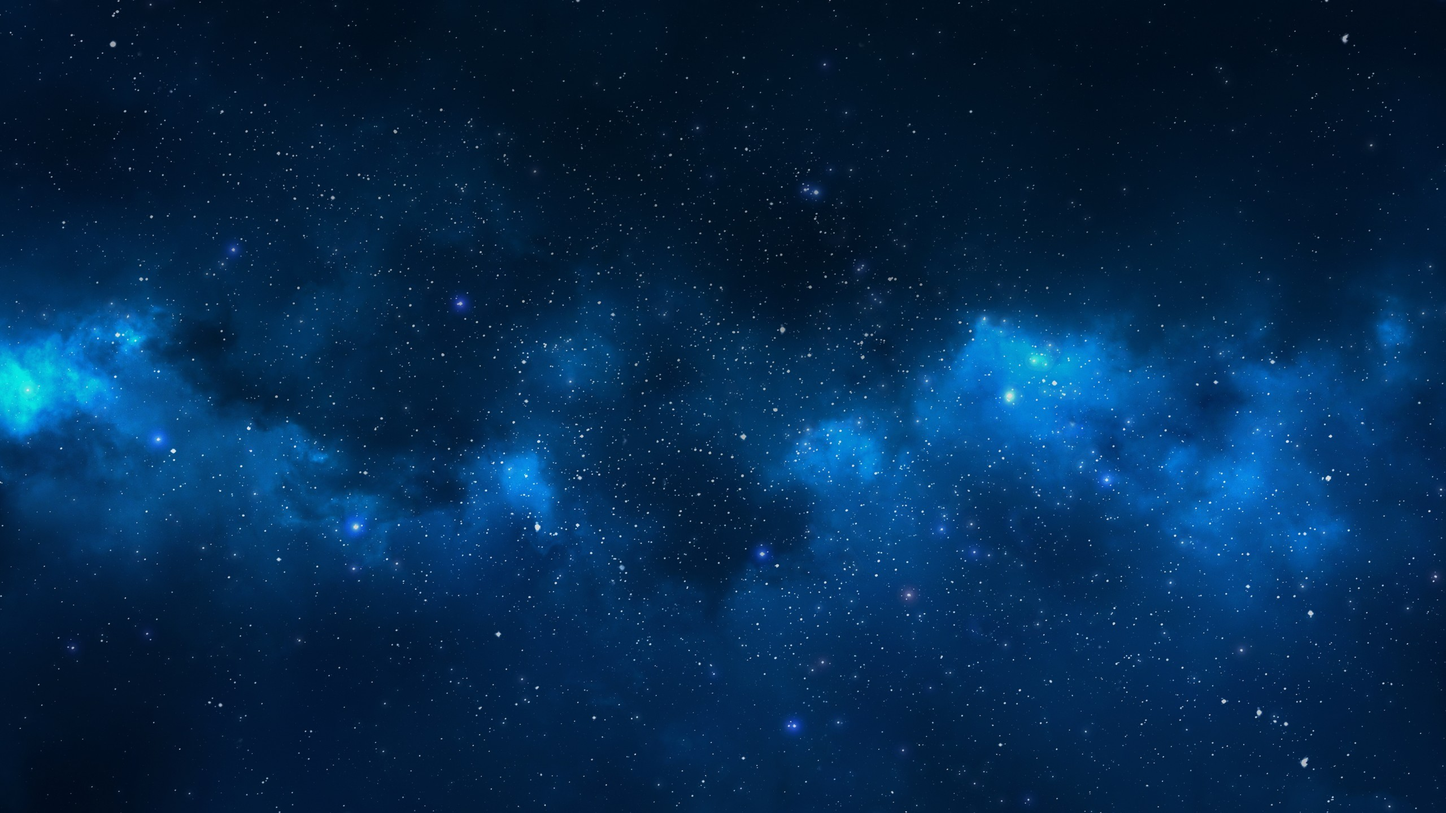
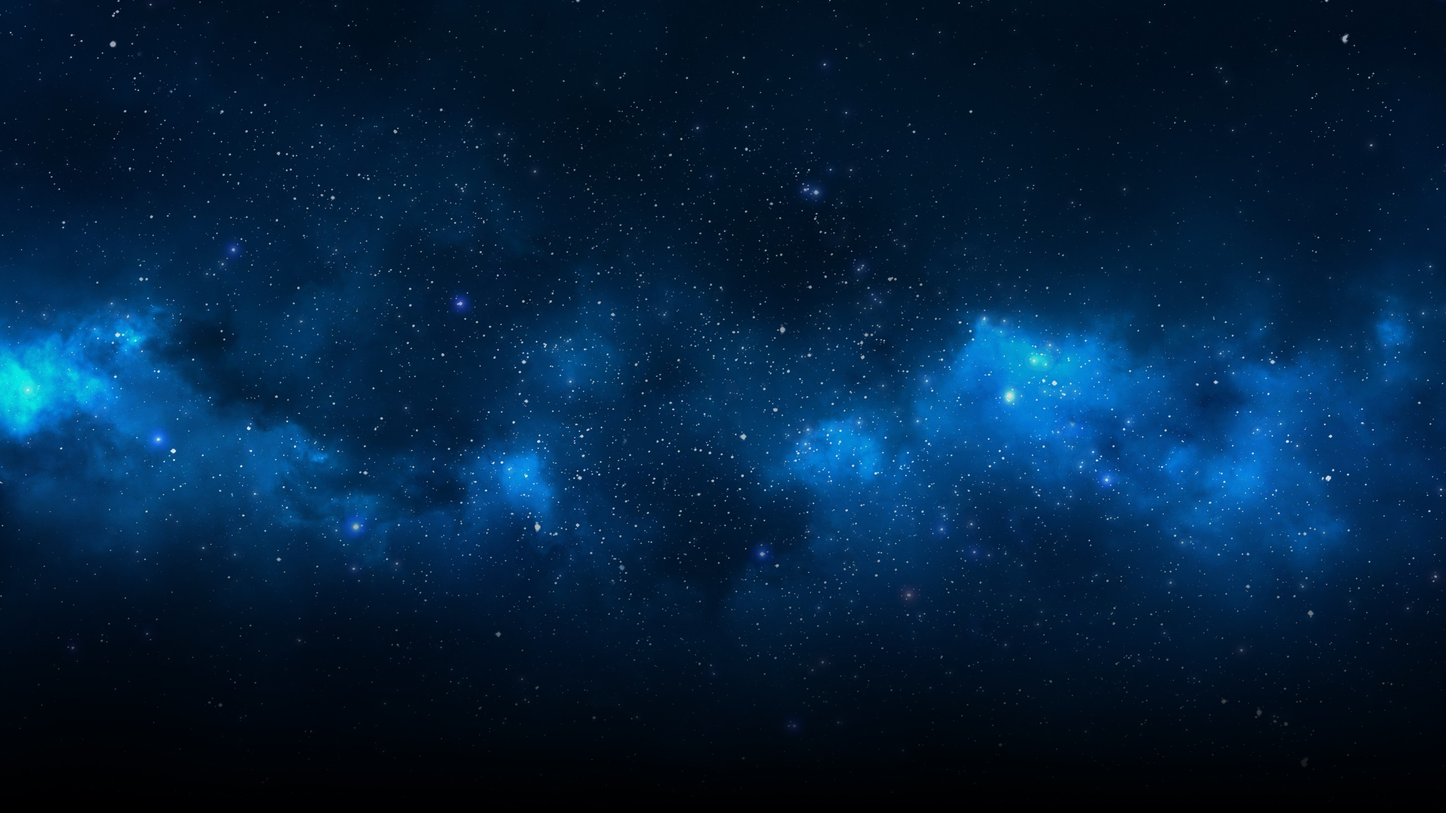
Tweak image setting

diff --git a/web/static/css/app.css b/web/static/css/app.css
@@ -1,7 +1,9 @@
 body {
   /* From http://hdscreen.us/wallpaper/Blue_stars_galaxies_artwork_space-NUiL.jpg */
+  background-color: #000;
   background-image: url("/images/galaxies.jpg");
   background-size: cover;
+  background-repeat: no-repeat;
   margin: 0;
   padding: 0;
 }
